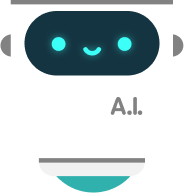
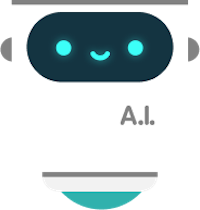
Style tweaks

diff --git a/src/demo/ui.jsx b/src/demo/ui.jsx
@@ -235,14 +235,16 @@ const styles = {
   },
   trainBot: {
     position: 'absolute',
-    height: '40%',
-    top: '28%',
-    left: '76%',
+    height: '100%',
+    top: 0,
+    left: '73%',
     display: 'flex',
-    flexDirection: 'column'
+    flexDirection: 'column',
+    justifyContent: 'center'
   },
   trainBotHead: {
-    transition: 'transform 500ms'
+    transition: 'transform 500ms',
+    padding: '0 12px'
   },
   trainBotOpen: {
     transform: 'rotate(90deg)',

diff --git a/src/demo/renderer.js b/src/demo/renderer.js
@@ -370,7 +370,7 @@ const drawMovingFish = state => {
     const drawPolaroid = state.currentMode === Modes.Training;
     let size = 1;
     if (drawPolaroid && state.isRunning && x > midScreenX) {
-      size = 0.5;
+      size = 0.35;
       // Apply sine wave to y-value to make item jump into AI bot's head.
       y -= Math.sin((runtime / state.moveTime) * Math.PI) * 200;
     }
